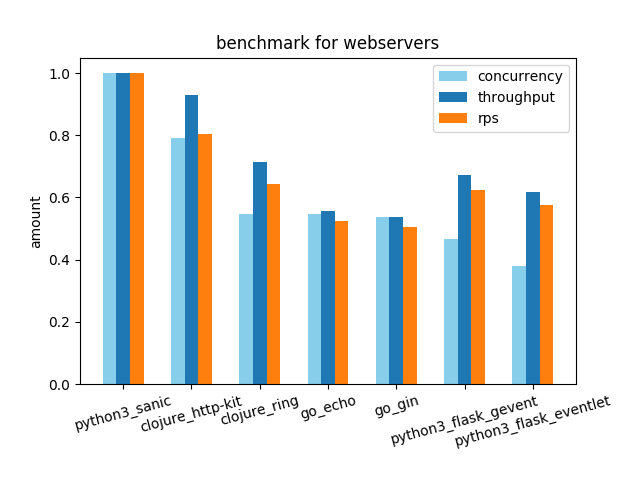
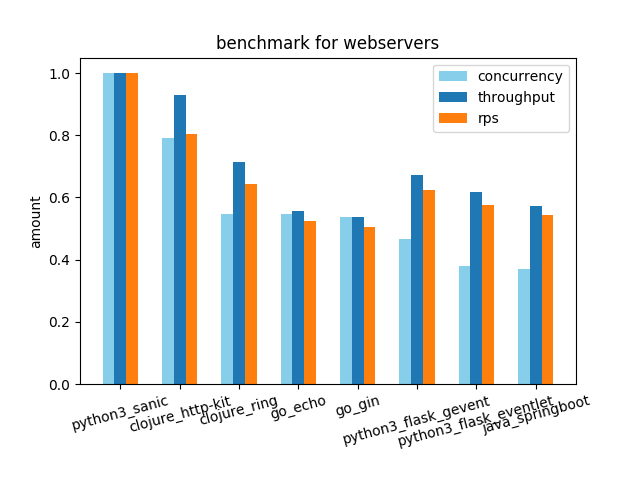
added java springboot

Changed region(s): [[0.0938, 0.1562, 0.9688, 0.9375]]

diff --git a/java/springboot/Application.java b/java/springboot/Application.java
@@ -1,0 +1,53 @@
+package server;
+
+
+import org.springframework.boot.SpringApplication;
+import org.springframework.boot.autoconfigure.SpringBootApplication;
+import org.springframework.context.annotation.Bean;
+import org.springframework.scheduling.annotation.Async;
+import org.springframework.scheduling.annotation.EnableAsync;
+import org.springframework.scheduling.concurrent.ThreadPoolTaskExecutor;
+import org.springframework.stereotype.Controller;
+import org.springframework.web.bind.annotation.RequestMapping;
+import org.springframework.web.bind.annotation.RequestParam;
+import org.springframework.web.bind.annotation.ResponseBody;
+import javax.annotation.PostConstruct;
+import java.util.concurrent.CompletableFuture;
+import java.util.concurrent.Executor;
+
+@Controller
+class ResponseController {
+    private String constStr = "";
+    @PostConstruct
+    public void init(){
+        final String constStrUnit = "http-kit is a http server & client written from scrach for high performance clojure web applications, support async and websocket";
+        StringBuilder sb = new StringBuilder();
+        for(int i = 0; i < 200; i++){
+            sb.append(constStrUnit);
+        }
+        this.constStr = sb.toString();
+    }
+    @RequestMapping("/")
+    @ResponseBody
+    @Async
+    public CompletableFuture<String> index(@RequestParam(value="length", defaultValue = "1024") String lengthStr ){
+        int length = Integer.parseInt(lengthStr);
+        return CompletableFuture.completedFuture(this.constStr.substring(0, length));
+    }
+}
+
+@SpringBootApplication
+@EnableAsync
+public class Application {
+    public static void main(String[] args){
+        SpringApplication.run(Application.class, args);
+    }
+    @Bean
+    public Executor taskExecutor() {
+        ThreadPoolTaskExecutor executor = new ThreadPoolTaskExecutor();
+        executor.setCorePoolSize(4);
+        executor.setMaxPoolSize(4);
+        executor.initialize();
+        return executor;
+    }
+}

diff --git a/gen_graph.py b/gen_graph.py
@@ -40,6 +40,13 @@ data = {
             'throughput': 8.74,
             'rps': 4149.91
         }},
+    'java': {
+        'springboot': {
+            'concurrency': 185500,
+            'throughput': 7.47,
+            'rps': 3615.75
+        }
+    }
 }
 
 concurrency = []
